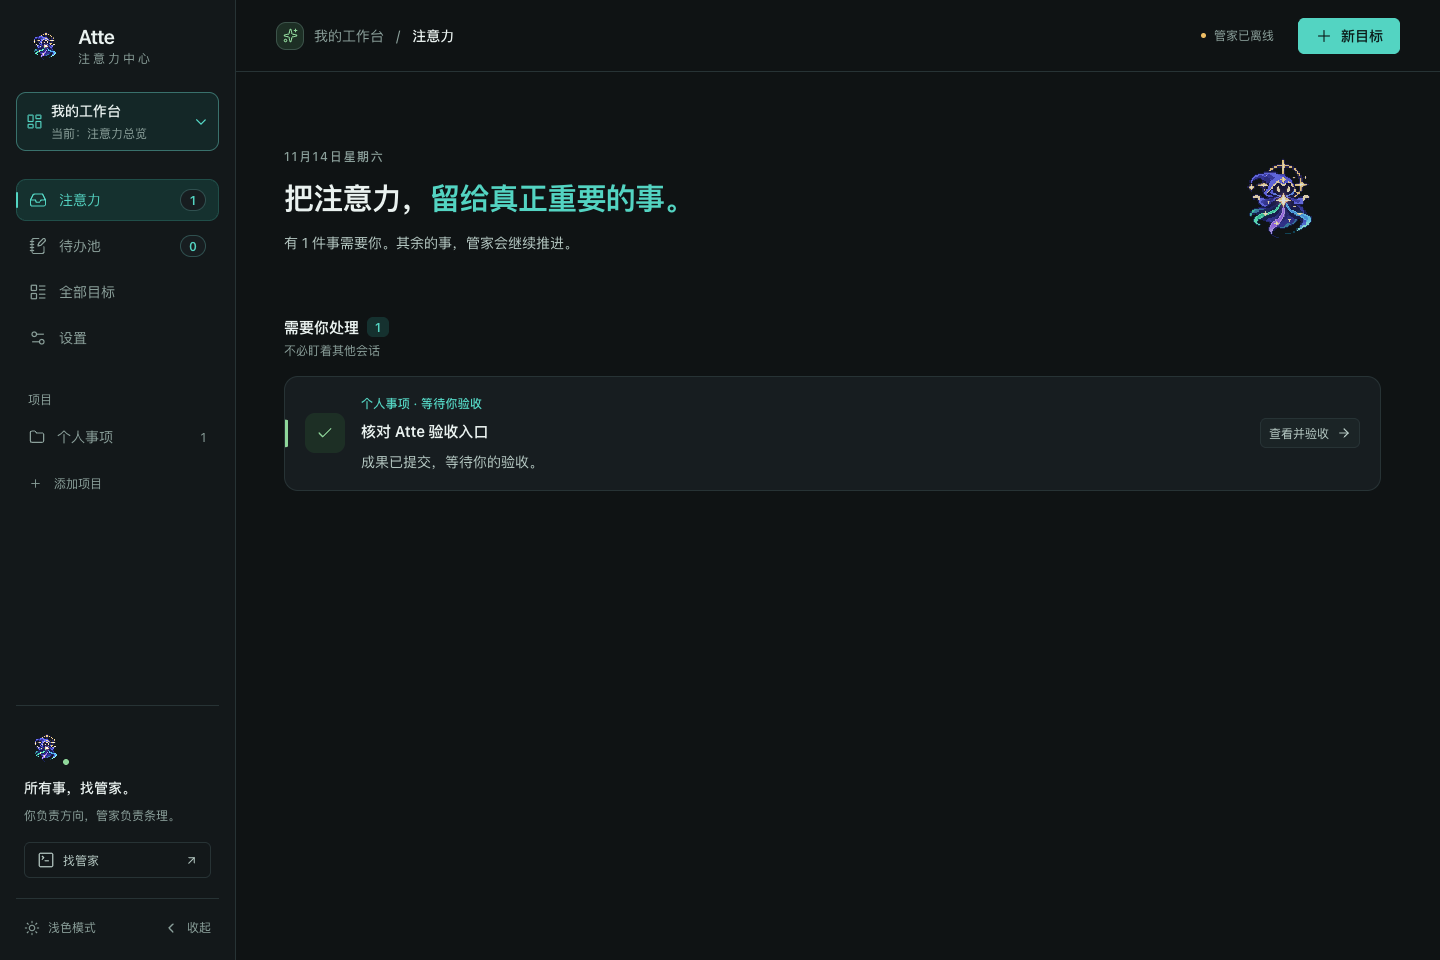
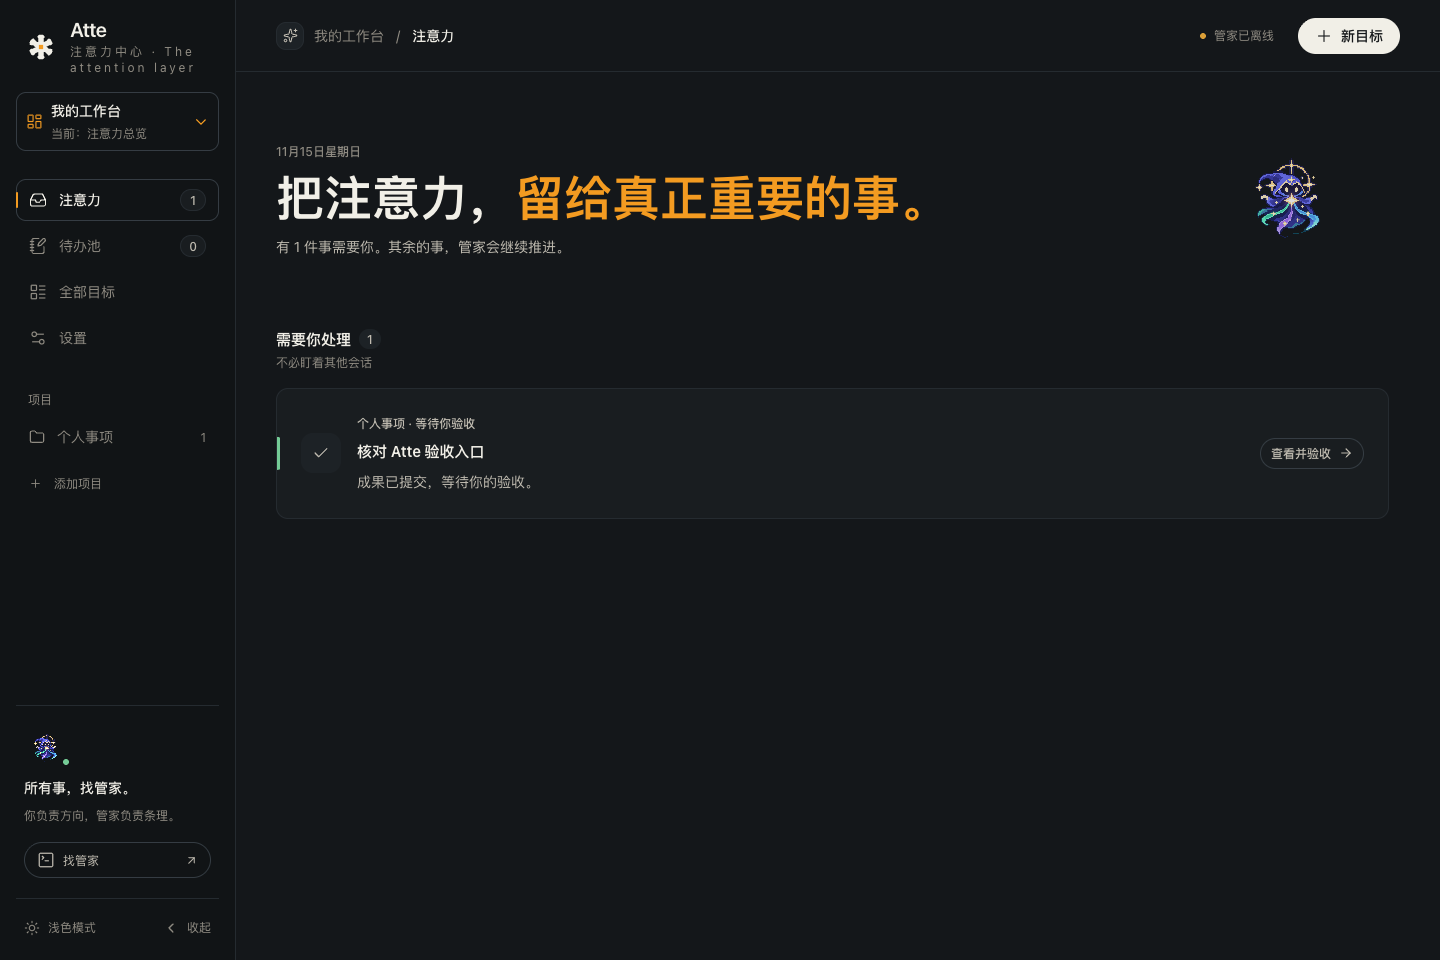
docs(readme): refresh the hero shot and status for 0.13.0
The overview image still showed the teal 0.12 UI; swap in the new ink/amber
home screen, bump the status line to 0.13.x and move the license badge onto
the brand amber.

diff --git a/README.md b/README.md
@@ -15,7 +15,7 @@ One workspace. Many projects. One concierge. Only what needs you reaches you.
 
 [![Latest release](https://img.shields.io/github/v/release/gdli6177/atte?display_name=tag&sort=semver)](https://github.com/gdli6177/atte/releases)
 [![macOS Apple Silicon](https://img.shields.io/badge/platform-macOS%20Apple%20Silicon-111520)](docs/releases.md)
-[![MIT License](https://img.shields.io/badge/license-MIT-83e4c2)](LICENSE)
+[![MIT License](https://img.shields.io/badge/license-MIT-F5A524)](LICENSE)
 [![Desktop installers](https://github.com/gdli6177/atte/actions/workflows/desktop-release.yml/badge.svg)](https://github.com/gdli6177/atte/actions/workflows/desktop-release.yml)
 
 </div>
@@ -35,7 +35,7 @@ It works with interactive CLI agents that can already run in a terminal, keeps
 the terminal sessions in Herdr or Orca, and adds the durable workflow around them:
 state, ownership, waiting, evidence, approvals, and recovery.
 
-> **Status:** early preview (`0.11.x`). The desktop UI is currently in Simplified
+> **Status:** early preview (`0.13.x`). The desktop UI is currently in Simplified
 > Chinese and the packaged app supports macOS on Apple Silicon.
 
 ## Why Atte

diff --git a/README.zh-CN.md b/README.zh-CN.md
@@ -15,7 +15,7 @@
 
 [![最新版本](https://img.shields.io/github/v/release/gdli6177/atte?display_name=tag&sort=semver)](https://github.com/gdli6177/atte/releases)
 [![平台](https://img.shields.io/badge/platform-macOS%20Apple%20Silicon-111520)](docs/releases.md)
-[![许可证](https://img.shields.io/badge/license-MIT-83e4c2)](LICENSE)
+[![许可证](https://img.shields.io/badge/license-MIT-F5A524)](LICENSE)
 [![桌面构建](https://github.com/gdli6177/atte/actions/workflows/desktop-release.yml/badge.svg)](https://github.com/gdli6177/atte/actions/workflows/desktop-release.yml)
 
 </div>
@@ -34,7 +34,7 @@ Atte 不替代 Codex、Claude Code、OMP、Cursor、Qoder 等 CLI Agent。已经
 终端中运行的交互式 Agent，都可以作为工作现场接入。Atte 为这些现场补齐
 持久目标、负责人、等待、证据、审批和恢复机制。
 
-> **当前状态：** 早期预览版（`0.11.x`）。桌面界面目前为简体中文，安装包支持
+> **当前状态：** 早期预览版（`0.13.x`）。桌面界面目前为简体中文，安装包支持
 > macOS Apple Silicon。
 
 ## 为什么需要 Atte
